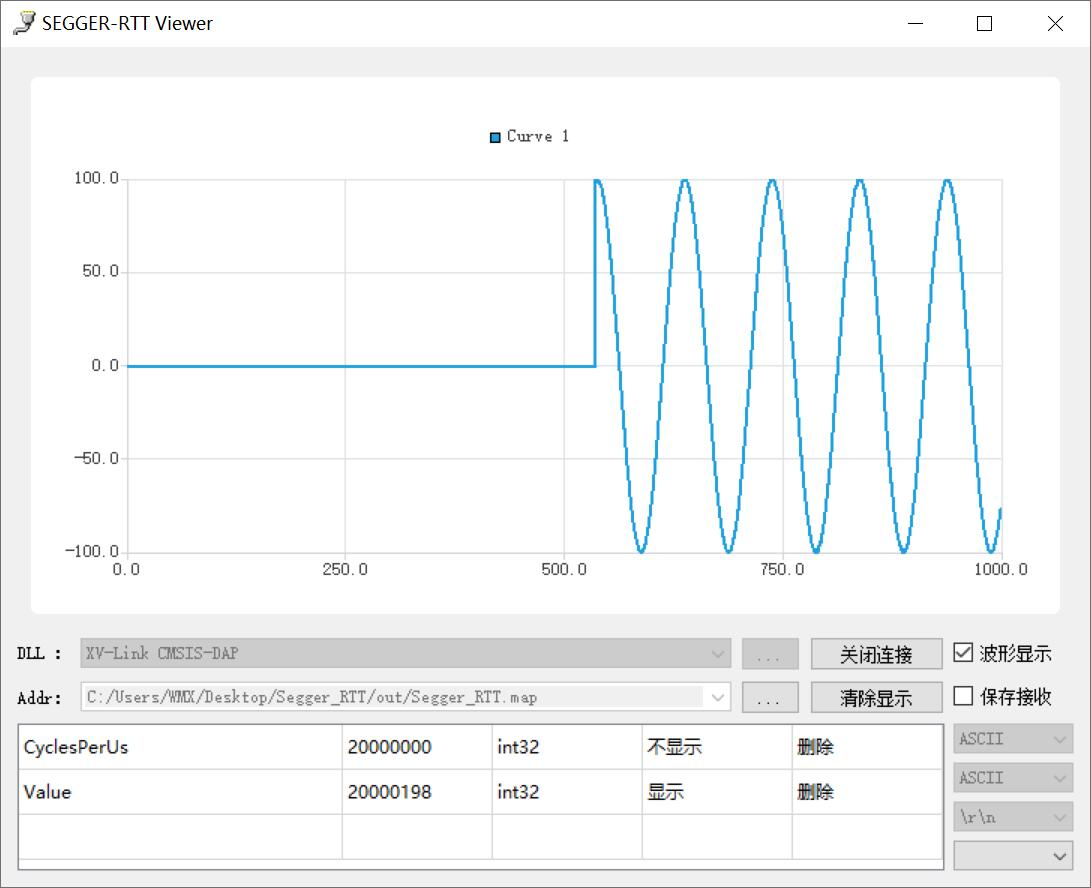
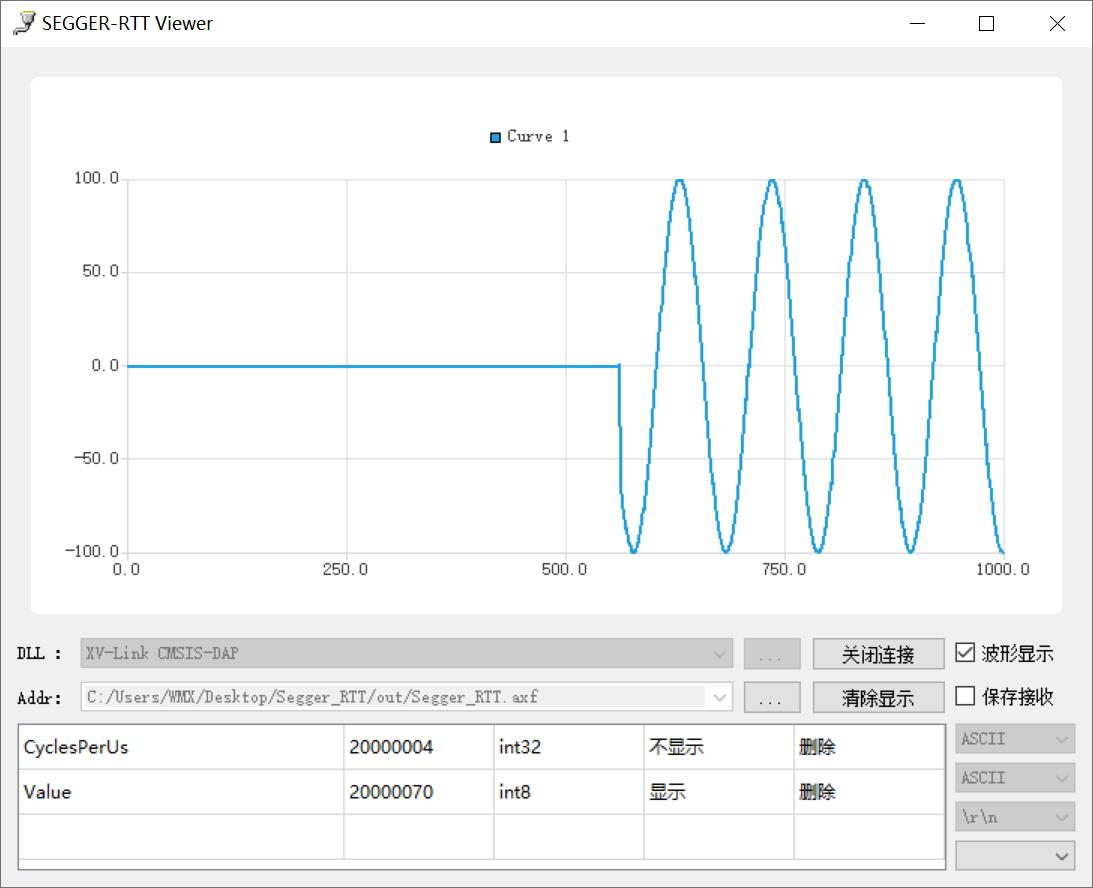
parse variable from elf file rather than map file

diff --git a/RTTView.py b/RTTView.py
@@ -40,7 +40,7 @@ class SEGGER_RTT_CB(ctypes.Structure):      # Control Block
     ]
 
 
-Variable = collections.namedtuple('Variable', 'name addr size')                 # variable from *.map file
+Variable = collections.namedtuple('Variable', 'name addr size')                 # variable from *.elf file
 Valuable = collections.namedtuple('Valuable', 'name addr size typ fmt show')    # variable to read and display
 
 
@@ -182,7 +182,7 @@ class RTTView(QWidget):
 
                 if re.match(r'0[xX][0-9a-fA-F]{8}', self.cmbAddr.currentText()):
                     addr = int(self.cmbAddr.currentText(), 16)
-                    for i in range(128):
+                    for i in range(256):
                         data = self.xlk.read_mem_U8(addr + 1024 * i, 1024 + 32) # 多读32字节，防止搜索内容在边界处
                         index = bytes(data).find(b'SEGGER RTT')
                         if index != -1:
@@ -428,9 +428,9 @@ class RTTView(QWidget):
 
     @pyqtSlot()
     def on_btnAddr_clicked(self):
-        mappath, filter = QFileDialog.getOpenFileName(caption='MDK .map file path', filter='MDK .map file (*.map)', directory=self.cmbAddr.currentText())
-        if mappath != '':
-            self.cmbAddr.insertItem(0, mappath)
+        elfpath, filter = QFileDialog.getOpenFileName(caption='elf file path', filter='elf file (*.elf *.axf *.out)', directory=self.cmbAddr.currentText())
+        if elfpath != '':
+            self.cmbAddr.insertItem(0, elfpath)
             self.cmbAddr.setCurrentIndex(0)
 
     @pyqtSlot(str)
@@ -456,14 +456,18 @@ class RTTView(QWidget):
             self.tblVar.setVisible(True)
 
         if os.path.exists(text) and os.path.isfile(text):
-            text = open(text, 'r', encoding='utf-8', errors='ignore').read()
+            try:
+                from elftools.elf.elffile import ELFFile
+                elffile = ELFFile(open(text, 'rb'))
+            except Exception as e:
+                print(f'open elf file fail: {e}')
+            else:
+                for sym in elffile.get_section_by_name('.symtab').iter_symbols():
+                    if sym.entry['st_info']['type'] == 'STT_OBJECT' and sym.entry['st_size'] in (1, 2, 4, 8):
+                        self.Vars[sym.name] = Variable(sym.name, sym.entry['st_value'], sym.entry['st_size'])
 
-            for match in re.finditer(r'([_A-Za-z][_\w]+)\s+(0x[\dA-Fa-f]+)\s+Data\s+(\d+)', text):
-                if match.group(3) in ('1', '2', '4', '8'):
-                    self.Vars[match.group(1)] = Variable(match.group(1), int(match.group(2), 16), int(match.group(3)))
-
-            for var in self.Vars.values():
-                print(f'{var.name:30s} @ {var.addr:08X}, len={var.size}')
+                for var in self.Vars.values():
+                    print(f'{var.name:30s} @ {var.addr:08X}, len={var.size}')
 
     @pyqtSlot(int, int)
     def on_tblVar_cellDoubleClicked(self, row, column):

diff --git a/jlink.py b/jlink.py
@@ -15,7 +15,7 @@ class JLink(object):
         self.jlk.JLINKARM_ExecCommand(f'Device = {mcucore}'.encode('latin-1'), err_buf, 64)
         
         self.jlk.JLINKARM_TIF_Select(1)
-        self.jlk.JLINKARM_SetSpeed(2000)
+        self.jlk.JLINKARM_SetSpeed(4000)
 
         self.get_registers()
 

diff --git a/README.md b/README.md
@@ -6,7 +6,7 @@ To run software, you need python 3.6+, pyqt5 and pyqtchart.
 To use DAPLink, you need additional pyusb for CMSIS-DAPv2 and another usb-backend for CMSIS-DAPv1 (hidapi or pywinusb for windows, hidapi for mac, pyusb for linux).
 
 ``` shell
-pip install PyQt5 PyQtChart pyusb hidapi six
+pip install PyQt5 PyQtChart pyusb hidapi six pyelftools
 ```
 
 ![](./截屏.gif)
@@ -18,8 +18,8 @@ data format for wave show:
 + 4 wave: 11 22 33 44, 55 66 77 88, 99 11 22 33,
 
 
-## Variable read directly
-When select map file path in address combobox, RTTView read selected variable directly from memory at specified address, rather from RTT buffer.
+## J-Scope HSS mode
+When select elf file path in address combobox, RTTView read selected variable directly from memory at specified address, rather from RTT buffer.
 
 ![](./截屏.jpg)
 
